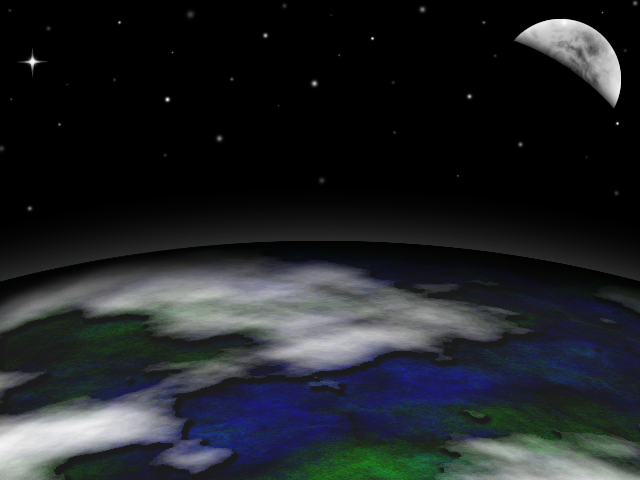
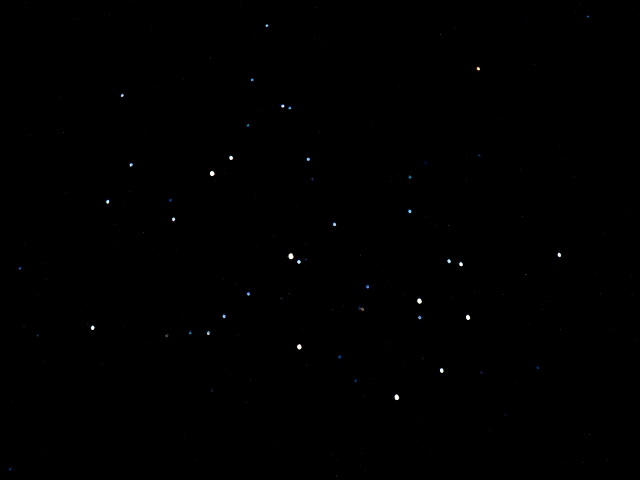
New image for credits/howto

diff --git a/gamelib/credits.py b/gamelib/credits.py
@@ -68,7 +68,7 @@ class CreditsScene(scene.Scene):
 
         y += self.musicLabelRect.height * 2
         self.namesLabelRect.topleft = (25, y)
-        y += 7
+        y += 13
 
         i = 0
         x = 280
@@ -83,8 +83,7 @@ class CreditsScene(scene.Scene):
         self.teamRect.bottomright = (640 - 25, 480 - 25)
 
     def draw(self, screen):
-        #screen.blit(self.background, (0, 0))
-        screen.fill((0, 0, 0))
+        screen.blit(self.background, (0, 0))
 
         screen.blit(self.text, self.textrect)
         screen.blit(self.design, self.designRect)
